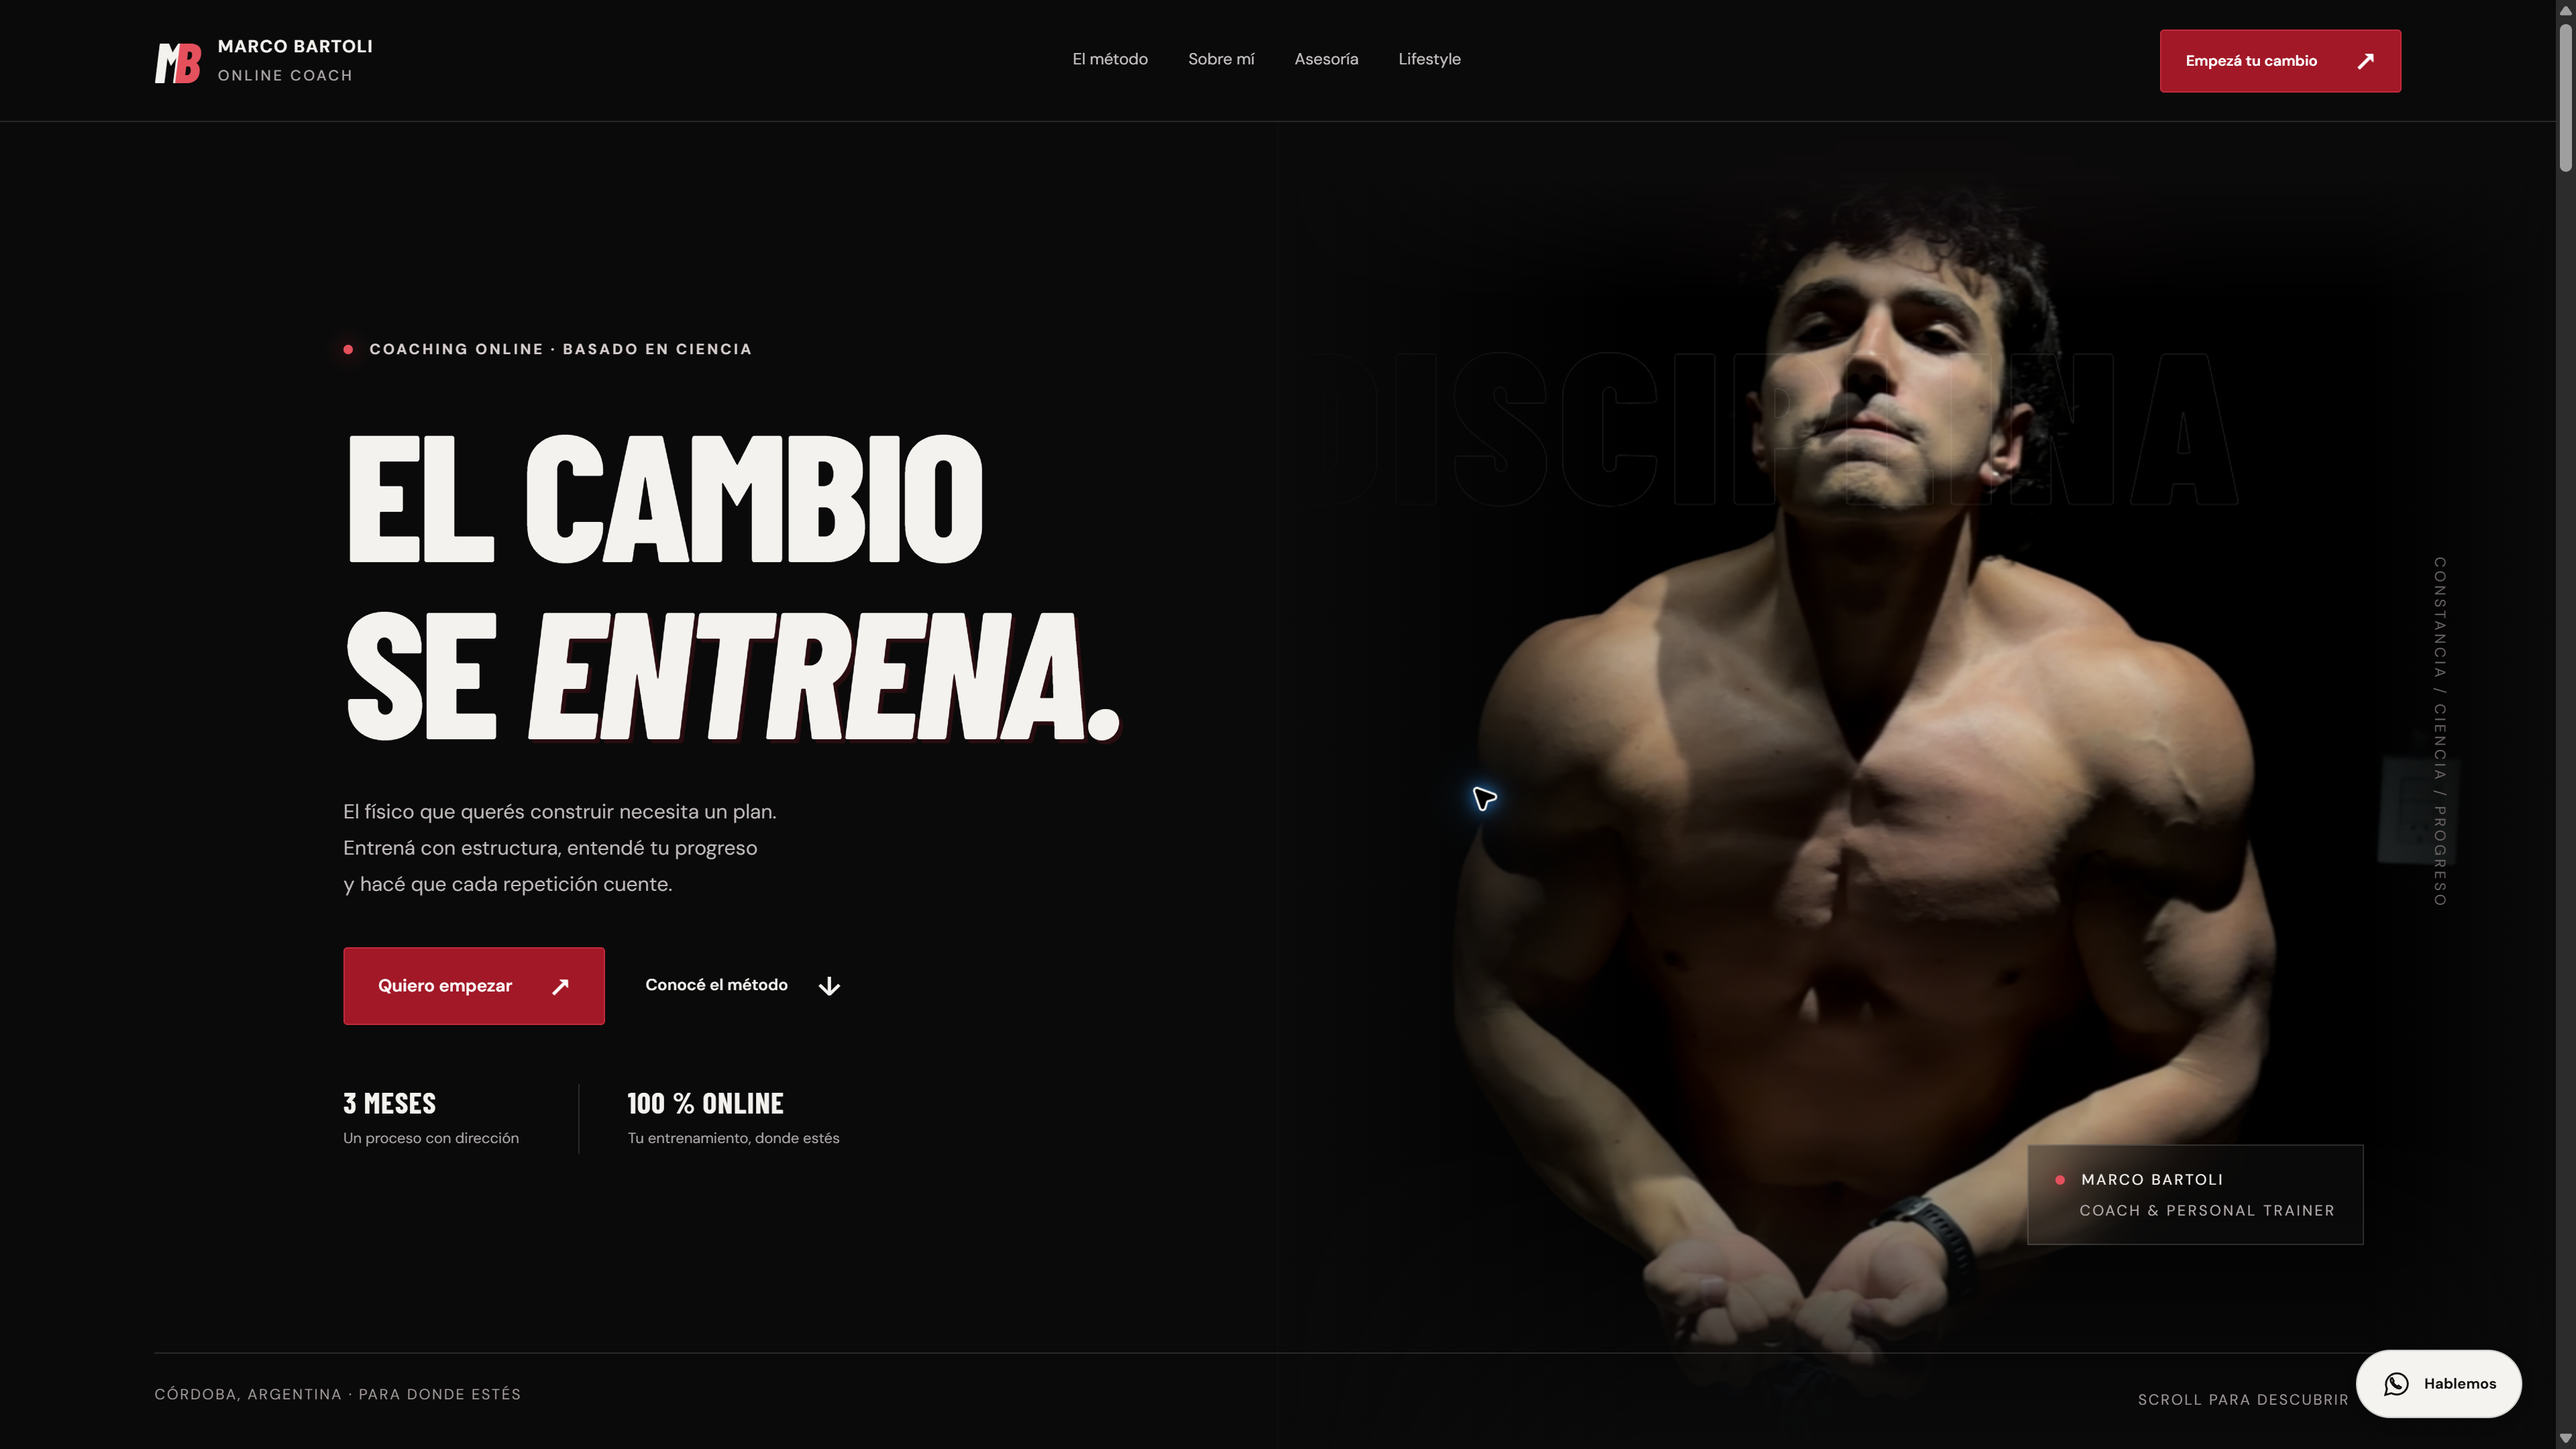
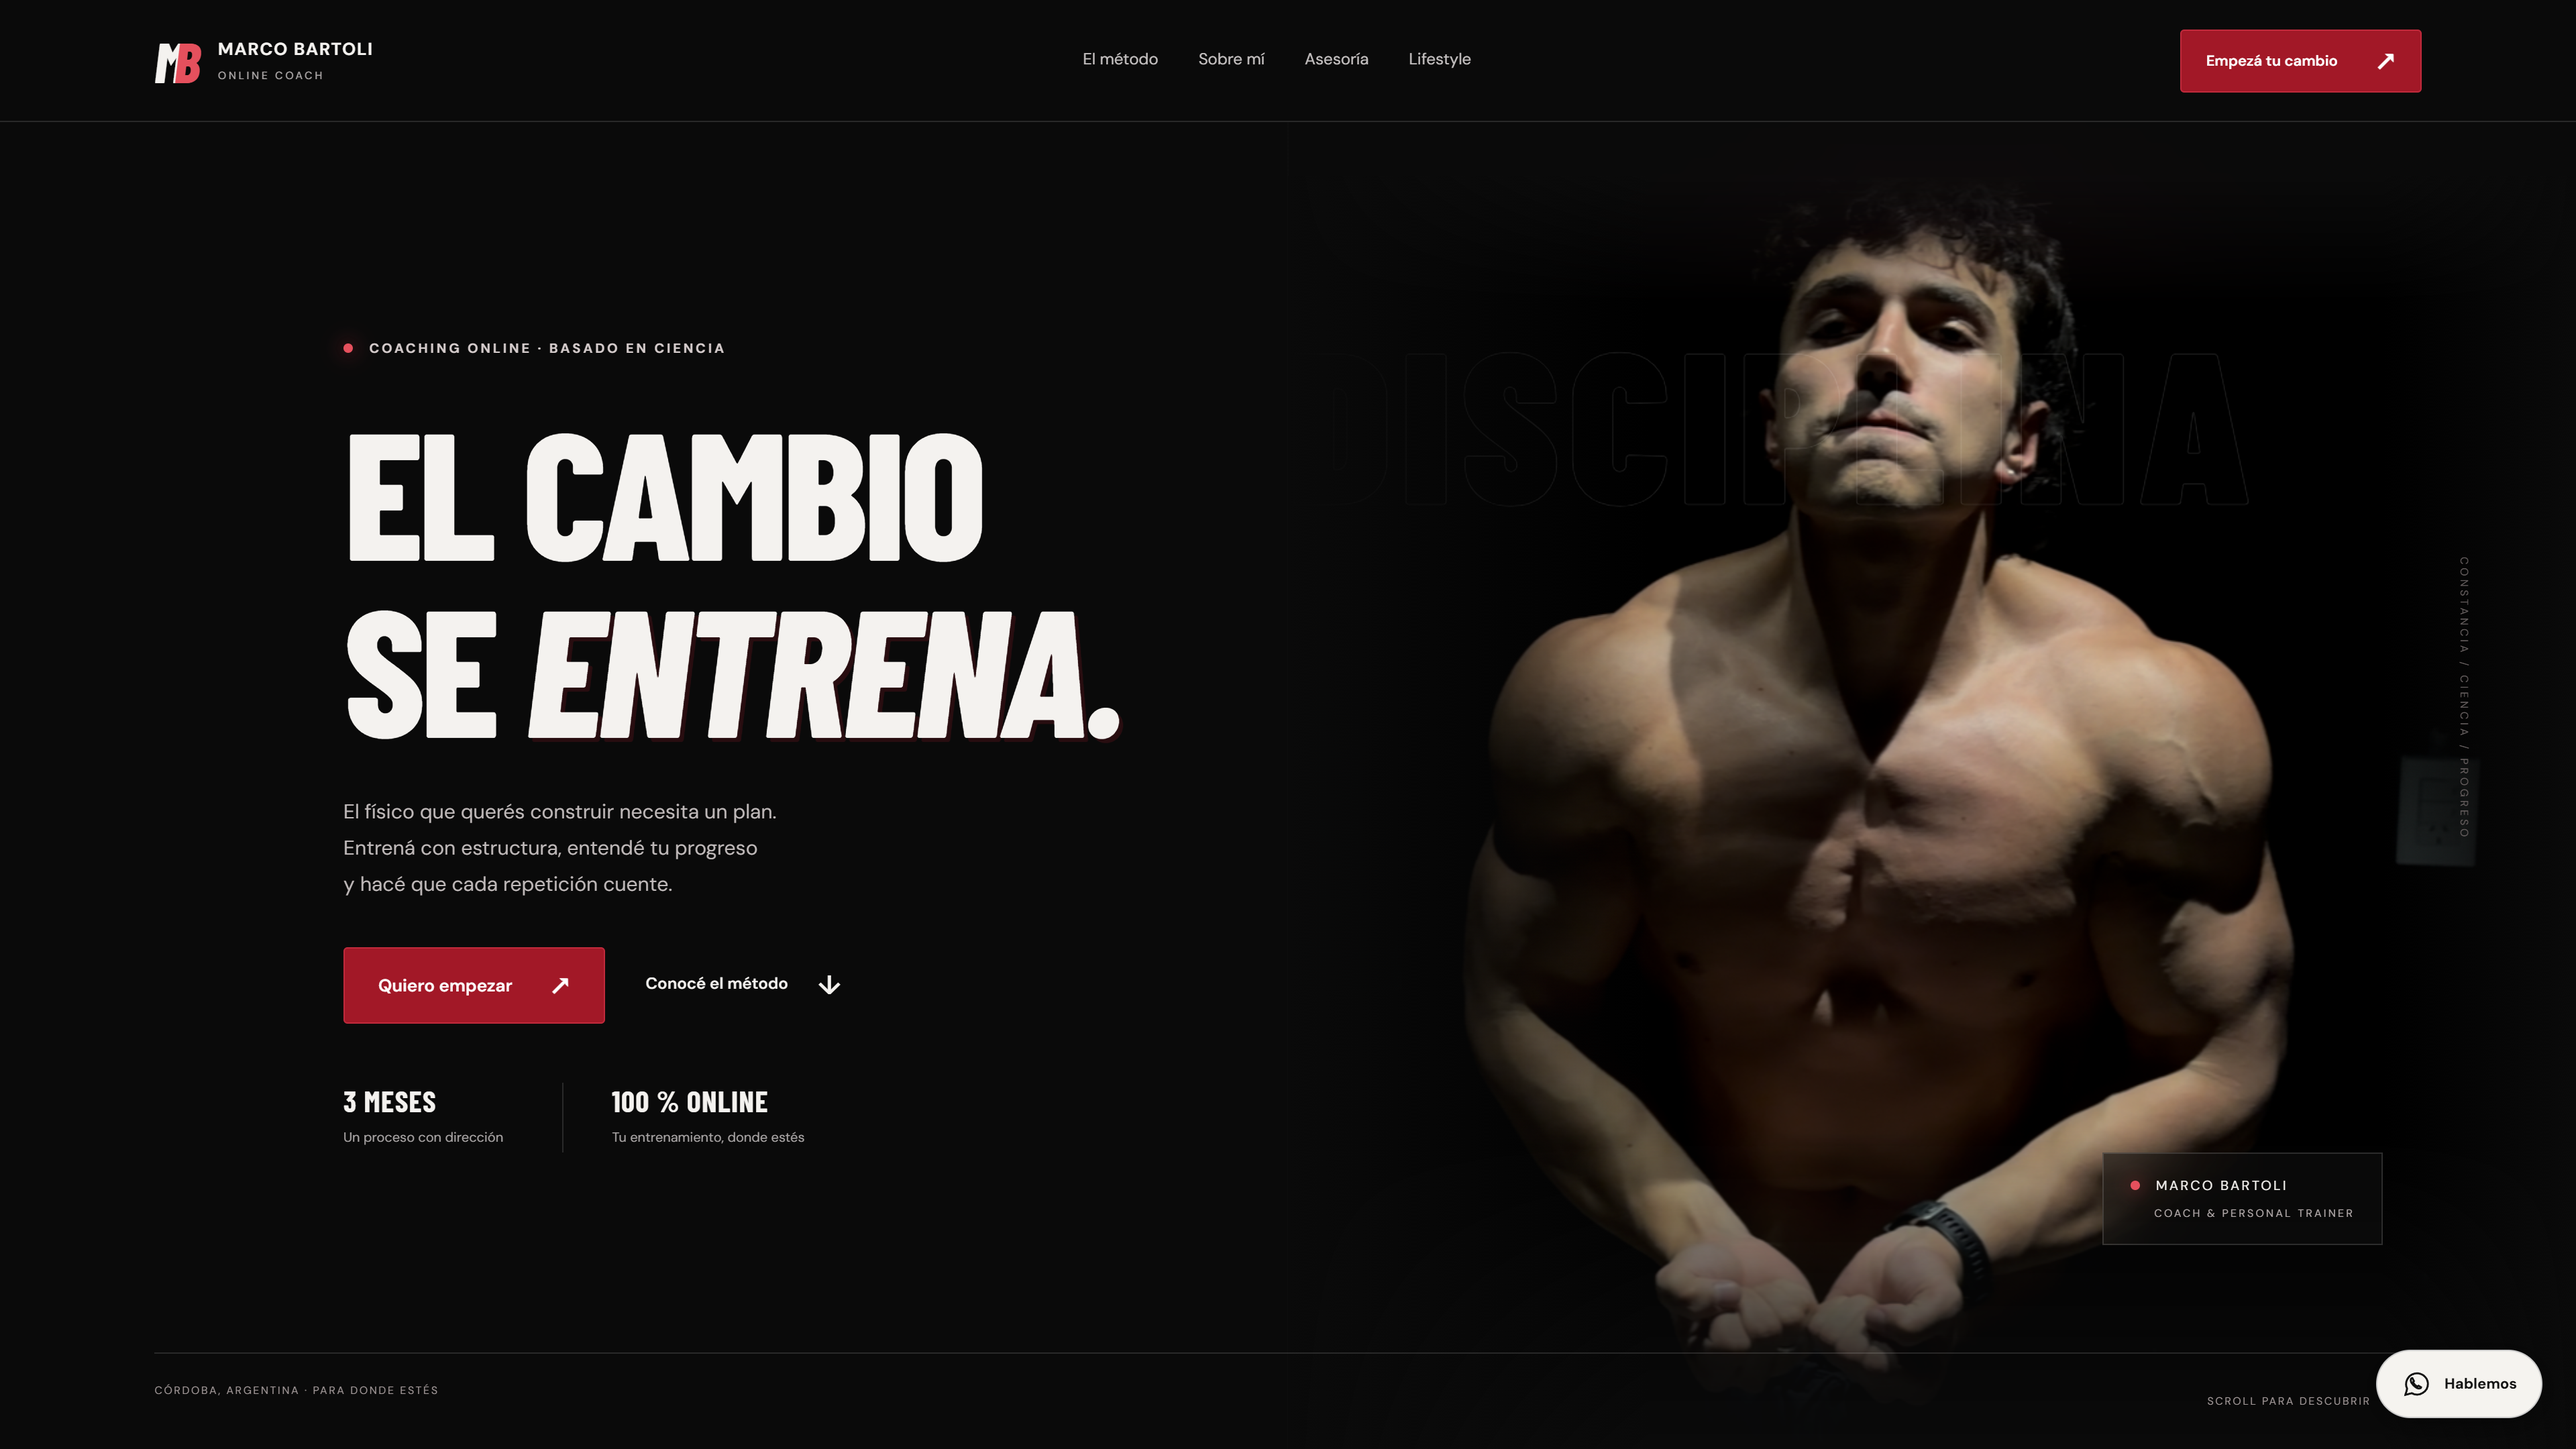
Quitar el puntero de la portada de Marco en el portafolio
Renueva la captura de la tarjeta de Marco sin el cursor superpuesto.
Conserva la resolución 3840 × 2160 y el formato PNG sin pérdida.
Actualiza el registro de calidad de la imagen.

public/images/marco.png
• Reemplaza la captura con puntero por una captura limpia del sitio.

docs/CALIDAD-IMAGENES.md
• Registra el tamaño y la procedencia de la captura renovada.

diff --git a/docs/CALIDAD-IMAGENES.md b/docs/CALIDAD-IMAGENES.md
@@ -10,7 +10,7 @@ Guardar los originales con toda su resolución y calidad. No recomprimir con pé
 
 | Archivo | Resolución | Tamaño | Procedencia y estado |
 | --- | --- | --- | --- |
-| public/images/marco.png | 3840 × 2160 | 1.43 MB | Captura nueva de la página con las fotos restauradas |
+| public/images/marco.png | 3840 × 2160 | 1.42 MB | Captura renovada sin puntero, guardada directamente en PNG sin pérdida |
 | public/images/crecer.png | 3840 × 2160 | 1.18 MB | Captura nueva de CRecer; retrato fuente limitado a 400 × 400 |
 | public/images/cupido.png | 3840 × 2160 | 6.04 MB | Captura nueva del sitio publicado |
 | public/images/forja-del-invocador.png | 3840 × 2160 | 0.70 MB | Captura nueva del sitio publicado |
